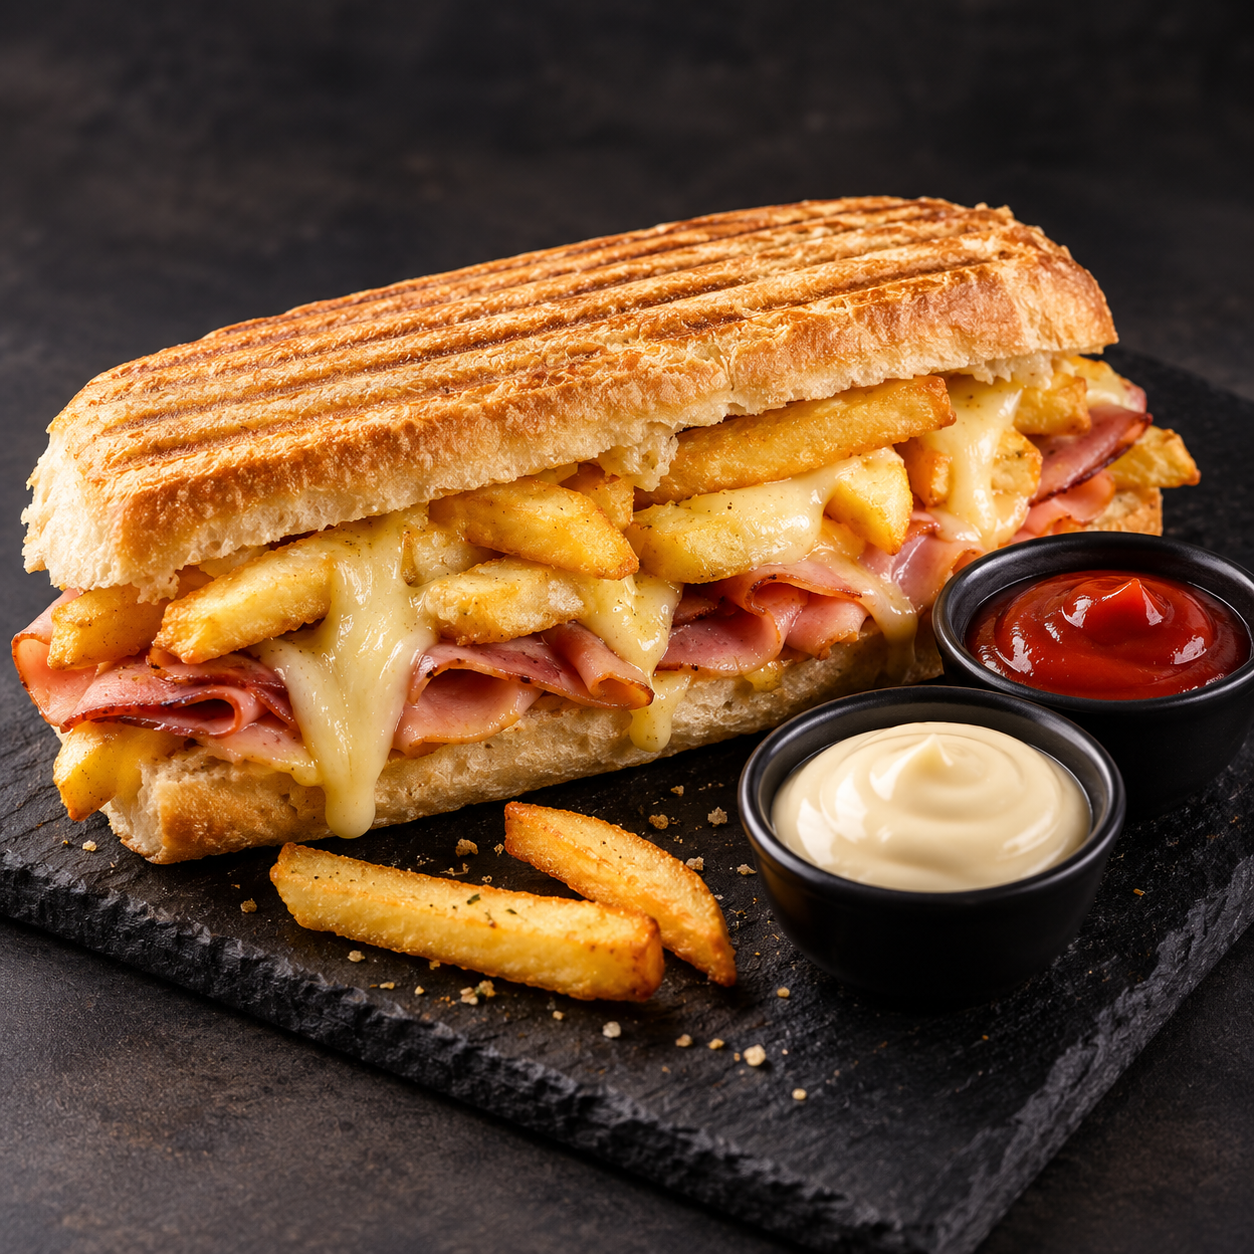
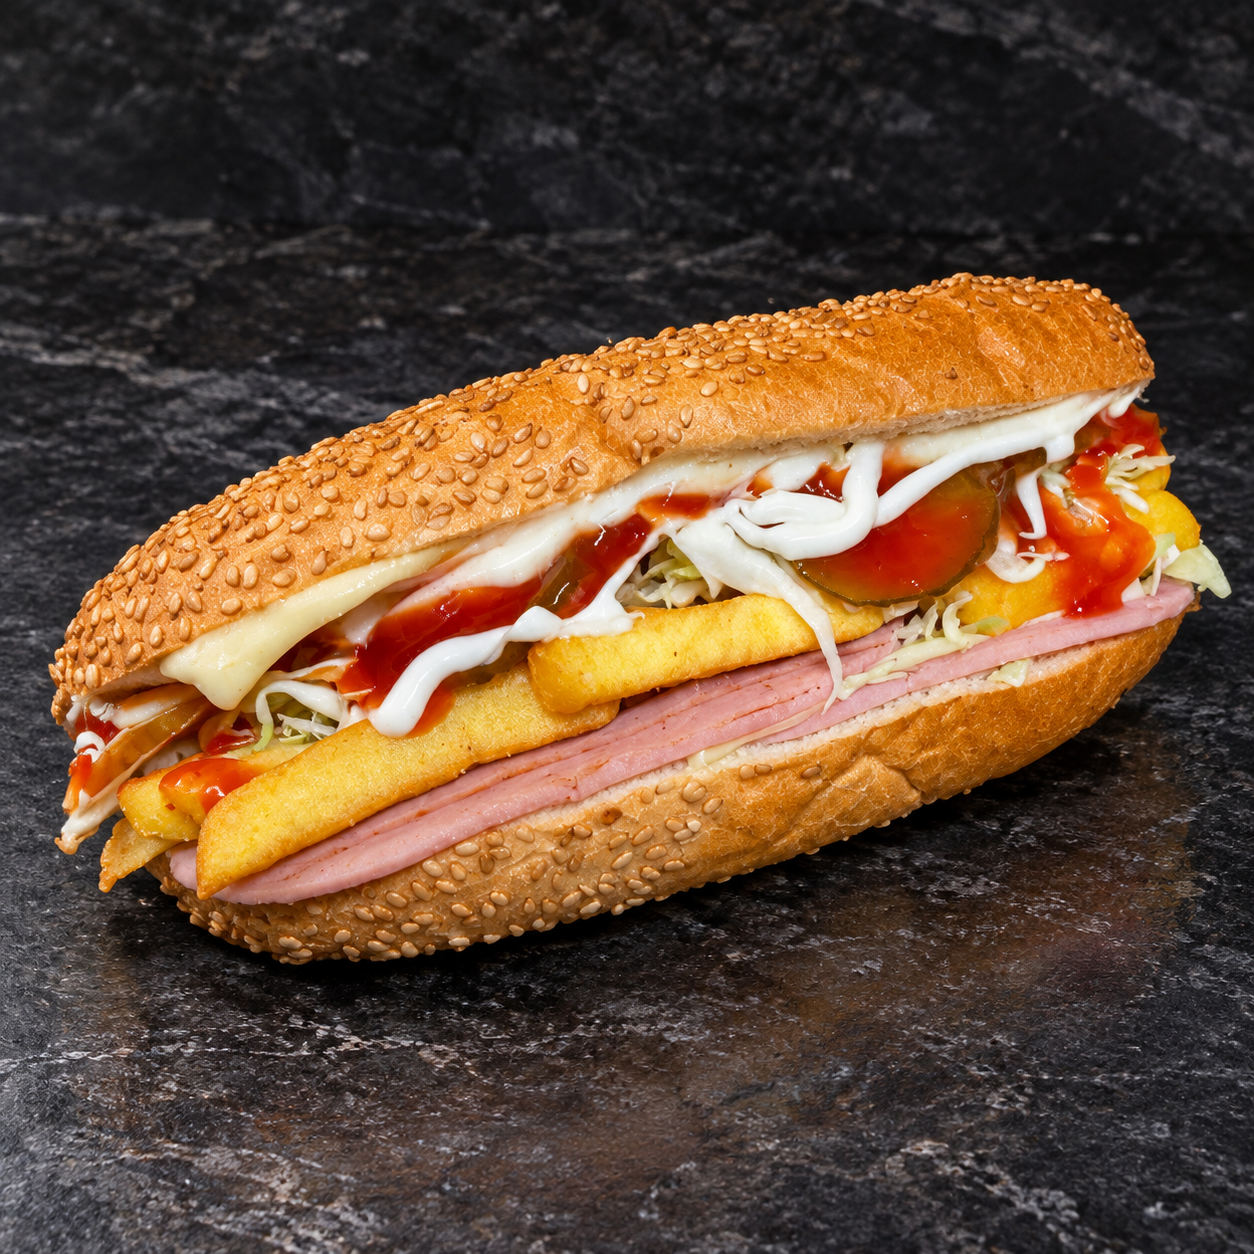
fdfcr

diff --git a/index.html b/index.html
@@ -1743,18 +1743,16 @@
                     <h3>Ingrediente</h3>
 
                     <p>
-                        • Folosim ingrediente atent alese
-                        pentru preparate gustoase.
+                        • La StreetBox, calitatea se simte în fiecare detaliu. Alegem
+                        cu grijă ingrediente atent selecționate și punem preț
+                        pe prospețime , gust și autenticitate.
                         <br>
-                        • Vrem să afirmăm cu certitudine că
-                        ,,<i>Ingredientele noastre sunt de o
-                            calitate bună prin faptul că sunt proaspete".</i>
+                        • Fiecare preparat este creat cu atenție, din ingrediente în care 
+                        avem încredere, pentru ca și tu să te bucuri de un gust desăvârșit, 
+                        de fiacare dată.
                         <br>
-                        • Suntem credincioșii în lucrurile mici precum
-                        ,,<i>INGREDIENTELE</i>", ca lucrurile mari
-                        obținute din cele mici cum ar fi
-                        ,,<i>PREPARATELE GUSTOARE</i>",
-                        să iasă desăvârșite!
+                        • Pentru noi, un preparat bun începe cu ingrediente bune. 
+                        iar diferența se simte de la prima îmbucătură.
                     </p>
                 </div>
 
@@ -2111,15 +2109,7 @@
                                 <div class="price">9 LEI</div>
                             </div>
                         </article>
-                        <article class="food-card" data-category="racoritoare">
-                            <div class="food-image"><img src="pepsi.png" alt="pepsi" loading="lazy" decoding="async">
-                            </div>
-                            <div class="food-info">
-                                <h3>Pepsi (500ml)</h3>
-
-                                <div class="price">9 LEI</div>
-                            </div>
-                        </article>
+                        
                         <article class="food-card" data-category="racoritoare">
                             <div class="food-image"><img src="fanta.png" alt="fanta" loading="lazy" decoding="async">
                             </div>
@@ -2138,15 +2128,7 @@
                                 <div class="price">9 LEI</div>
                             </div>
                         </article>
-                        <article class="food-card" data-category="racoritoare">
-                            <div class="food-image"><img src="prigat.png" alt="prigat" loading="lazy" decoding="async">
-                            </div>
-                            <div class="food-info">
-                                <h3>Prigat (500ml)</h3>
-
-                                <div class="price">9 LEI</div>
-                            </div>
-                        </article>
+                        
                         <article class="food-card" data-category="racoritoare">
                             <div class="food-image"><img src="energizant.png" alt="energizant" loading="lazy"
                                     decoding="async">
@@ -2154,7 +2136,7 @@
                             <div class="food-info">
                                 <h3>Energizant (250ml)</h3>
 
-                                <div class="price">9 LEI</div>
+                                <div class="price">6 LEI</div>
                             </div>
                         </article>
                         <article class="food-card" data-category="racoritoare">
@@ -2391,7 +2373,7 @@
                     <h3>Social</h3>
                     <a href="https://www.instagram.com/streetbox.foodcoffee?stkn=eXdxb3prNmsyam9m">Instagram</a>
                     <a href="https://www.facebook.com/share/14qX76Uey92/">Facebook</a>
-                    <a href="#">TikTok</a>
+                   
                 </div>
             </div>
             <div class="anpc">
